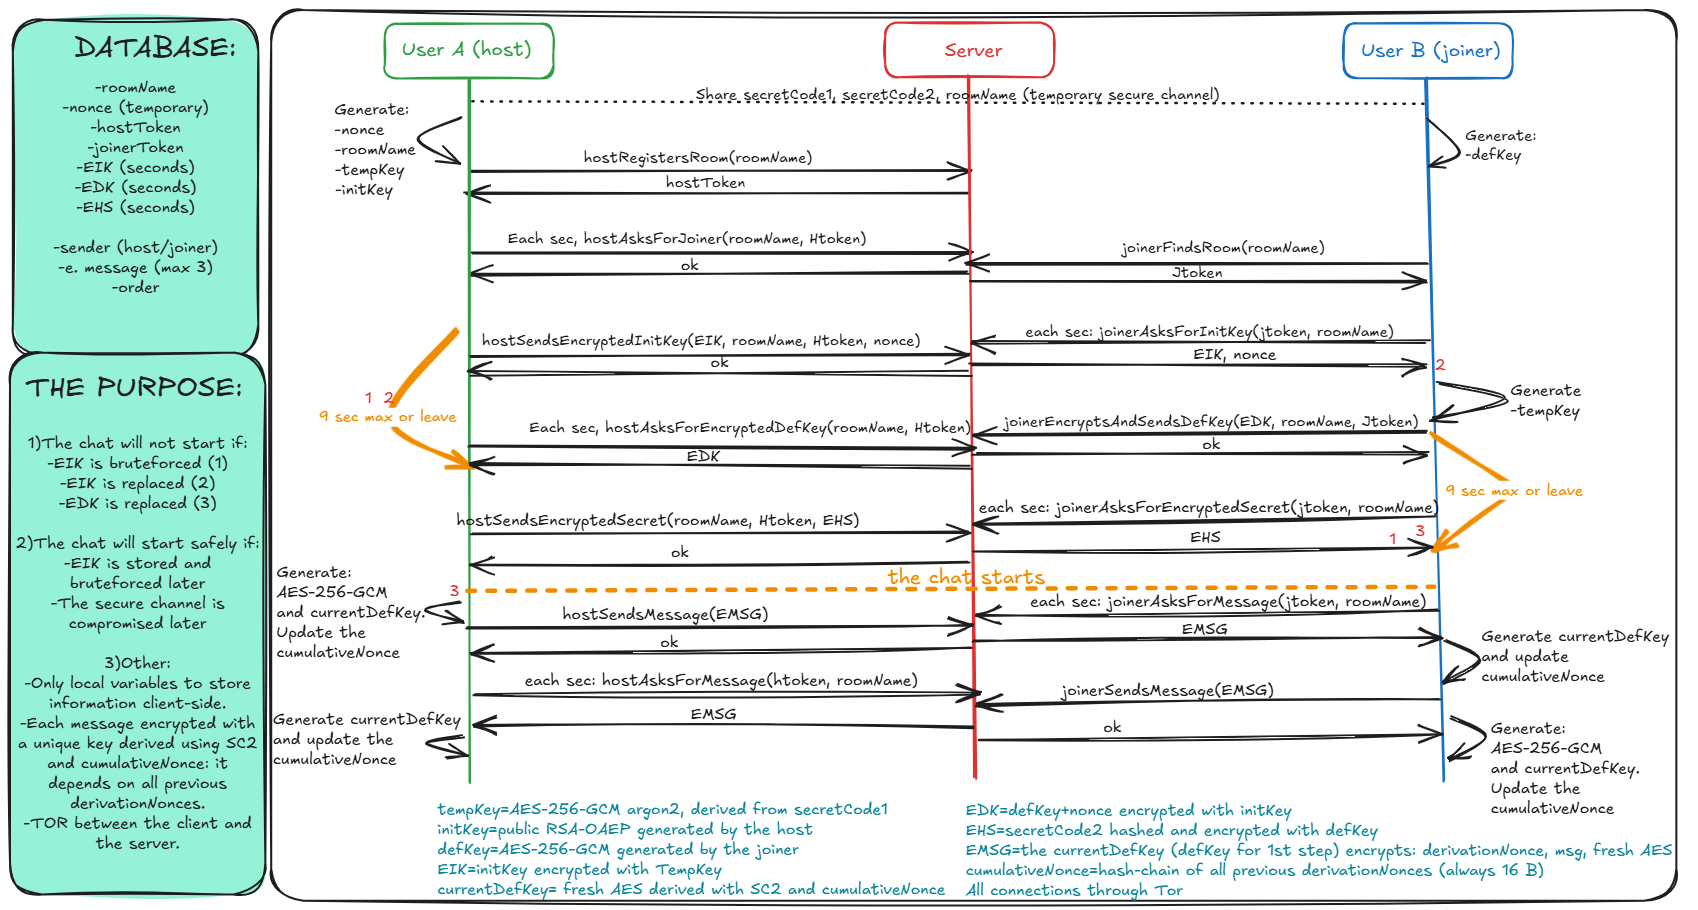
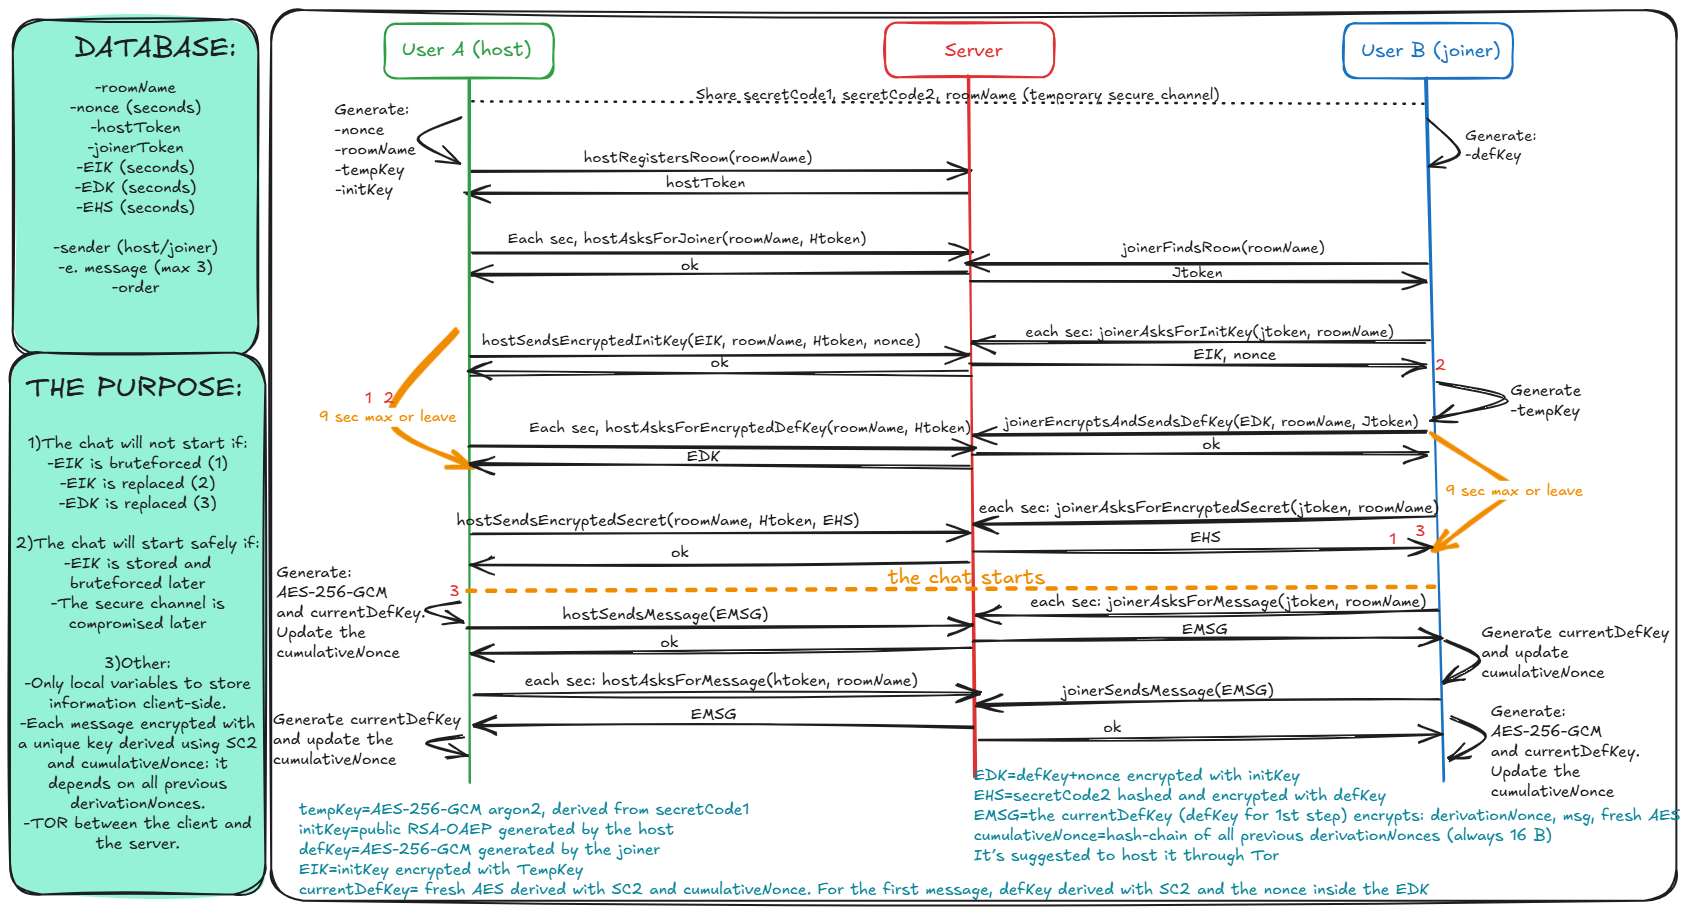
Improved encryption of first chat message + fix cumulativeNonce
Previously, only defKey encrypted the initial message. Now, defKey is derived with the EDK nonce that never leaves the browser in plaintext, along with secretCode2.

diff --git a/front/script.js b/front/script.js
@@ -5,12 +5,13 @@
 2)The host asks each 1,5s if the other user (joiner) joined the room.
 3)The joiner generates the defKey (AES), joins the room (with roomName) and receives the joinerToken.
 4)The host, knowing the joiner is present, generates a self-destruct timer and sends the initKey encrypted by the tempKey and the nonce to the server.
-5)The joiner asks for the nonce and encrypted initKey. Then he generates the tempKey (secretCode1, nonce and Argon) and uses it to decrypt the initKey
-6) The joiner starts a self-destruct timer, encrypts the defKey + random nonce using the decrypted initKey and sends it to the server.
-7) The host polls every 1.5 s for the defKey encrypted by the initKey. When it arrives it is decrypted, the trailing 16-byte nonce is removed, and the clean defKey is imported. The self-destruct timer is cleared.
+5)The joiner asks for the nonce and encrypted initKey. Then he generates the tempKey (secretCode1, nonce and Argon) and uses it to decrypt the initKey.
+6) The joiner starts a self-destruct timer, encrypts the defKey + random nonce using the decrypted initKey and sends it to the server. The first currentKey is the defKey derived with this nonce and the secretCode2.
+7) The host polls every 1.5 s for the defKey encrypted by the initKey. When it arrives it is decrypted, the trailing 16-byte nonce is used with the secretCode2 to derivate the first currentKey, and the clean defKey is imported. The self-destruct timer is cleared.
 8)The host Encrypts the hash of secretCode2 using the defKey and sends it to the server.
 9)The joiner ask for the encrypted hash of SecretCode2, decrypts it, compares it. If matches, the processus is validated and the joiner timer cleared.
 ----the chat starts---
+-The first message is encrypted with defKey derived with the nonce (step 6 or 7) and the secretCode2. Then:
 10)The sender encrypts message + a fresh AES + a nonce (derivationNonce) using currentDefKey (defKey for the first time) and sends it. Then updates cumulativeNonce (first message: =derivationNonce; later: SHA-256(old||new)[0:15]) and derives the next currentDefKey = AES derived with secretCode2 + cumulativeNonce.
 11)The receiver decrypts using currentDefKey, gets the AES and derivationNonce, updates cumulativeNonce exactly the same way (first message: =derivationNonce; later: SHA-256(old||new)[0:15]), then derives the next currentDefKey = AES derived with secretCode2 + cumulativeNonce.
 */
@@ -617,7 +618,7 @@ function app() {
     }
 
 
-    // 6) The joiner starts a self-destruct timer, encrypts the defKey + random nonce using the decrypted initKey and sends it to the server.
+    //6) The joiner starts a self-destruct timer, encrypts the defKey + random nonce using the decrypted initKey and sends it to the server. The first currentKey is the defKey derived with this nonce and the secretCode2.
     async function joinerEncryptsAndSendsDefKey() {
         try {
             stepsAnimation("defKey", "joiner", "completed");
@@ -625,6 +626,8 @@ function app() {
             const defKeyRaw = await crypto.subtle.exportKey('raw', defKey);
             // Generate a secure random nonce (16 bytes = 128 bits)
             const nonce = crypto.getRandomValues(new Uint8Array(16));
+            cumulativeNonce = nonce //the first message: cumulativeNonce = nonce sent with deFkey
+            await deriveNextCurrentDefKey(new Uint8Array(defKeyRaw)) //derive the key that encrypts the 1st message with cumulativeNonce and SC2
             // Concatenate defKey + nonce
             const defKeyWithNonce = new Uint8Array(defKeyRaw.byteLength + nonce.byteLength);
             defKeyWithNonce.set(new Uint8Array(defKeyRaw), 0);
@@ -658,7 +661,7 @@ function app() {
 
 
 
-    /* 7) The host polls every 1.5 s for the defKey encrypted by the initKey. When it arrives it is decrypted, the trailing 16-byte nonce is removed, and the clean defKey is imported. The self-destruct timer is cleared.*/
+    //7) The host polls every 1.5 s for the defKey encrypted by the initKey. When it arrives it is decrypted, the trailing 16-byte nonce is used with the secretCode2 to derivate the first currentKey, and the clean defKey is imported. The self-destruct timer is cleared.
     function hostAsksForEncryptedDefKey() {
         fetch('http://localhost:3001/api/hostAsksForEncryptedDefKey', {
             method: 'POST',
@@ -682,8 +685,10 @@ function app() {
                 return response.json();
             })
             .then(data => {
-                hostDecryptsDefKey(data.encryptedDefKey);
-                showBorderEffect("host", "defKeyImgContainer");
+                if (data?.encryptedDefKey) {
+                    hostDecryptsDefKey(data.encryptedDefKey);
+                    showBorderEffect("host", "defKeyImgContainer");
+                }
             })
             .catch(error => {
                 console.error('Error requesting defKey:', error);
@@ -711,6 +716,7 @@ function app() {
                 throw new Error('Decrypted payload too short – missing nonce');
             }
             const defKeyRaw = fullArray.slice(0, -NONCE_LENGTH);
+            cumulativeNonce = fullArray.slice(-NONCE_LENGTH); //the first message: cumulativeNonce = nonce sent with deFkey
             defKey = await crypto.subtle.importKey(
                 'raw',
                 defKeyRaw,
@@ -718,6 +724,9 @@ function app() {
                 false,
                 ['encrypt', 'decrypt']
             );
+            await deriveNextCurrentDefKey(new Uint8Array(defKeyRaw)) //the first message is encrypted by defKey derived using SC2 and cumulativeNonce
+
+
             timer("host", "stop");
             hostEncryptsTheSecret(defKey);
             stepsAnimation("validated", "host", "completed");
@@ -755,6 +764,7 @@ function app() {
             const base64EncryptedHash = btoa(String.fromCharCode(...result));
             showBorderEffect("host", "lockStatusImgContainer")
             hostSendsEncryptedSecret(base64EncryptedHash);
+            defKey = null
         } catch (error) {
             stepsAnimation("validated", "host", "failed")
             console.error("Errore crittografia secret:", error);
@@ -763,8 +773,6 @@ function app() {
 
 
     function hostSendsEncryptedSecret(base64EncryptedHash) {
-        currentDefKey = defKey;
-        defKey = null
         fetch('http://localhost:3001/api/hostSendsEncryptedSecret', {
             method: 'POST',
             headers: { 'Content-Type': 'application/json' },
@@ -849,12 +857,10 @@ function app() {
         const myHash = new Uint8Array(myHashBuffer)
         const a = receivedSecretHash;
         const b = myHash;
-        console.log(a, b)
         if (a.length === b.length && a.toString() === b.toString()) {
             stepsAnimation("chat", "joiner", "completed")
             timer("joiner", "stop")
             alert("host is certified!")
-            currentDefKey = defKey
             defKey = null
             setTimeout(() => {
                 updateDynamicElements("chatPage")
@@ -1105,7 +1111,7 @@ function app() {
                     combined.set(cumulativeNonce, 0);
                     combined.set(derivationNonce, 16);
                     const hash = await crypto.subtle.digest("SHA-256", combined);
-                    cumulativeNonce = hash.slice(0, 16);  // always 16 byte
+                    cumulativeNonce = new Uint8Array(hash).slice(0, 16);  // always 16 byte
                 }
                 // 9. Derive the new current key from the nextAesKey (using secretCode2 + derivationNonce from previous msg)
                 currentDefKey = await deriveNextCurrentDefKey(nextAesRaw);
@@ -1151,7 +1157,7 @@ function app() {
                 combined.set(cumulativeNonce, 0);
                 combined.set(derivationNonce, 16);
                 const hash = await crypto.subtle.digest("SHA-256", combined);
-                cumulativeNonce = hash.slice(0, 16);  // always 16 byte
+                cumulativeNonce = new Uint8Array(hash).slice(0, 16);  // always 16 byte
             }
             // 6. Derive the next currentDefKey using the new cumulativeNonce
             currentDefKey = await deriveNextCurrentDefKey(nextAesRaw);

diff --git a/readme.md b/readme.md
@@ -4,11 +4,13 @@
 Experimental, minimalist end-to-end encrypted chat.
 
 Requires one **temporarily secure external channel** (voice call, QR, meeting, another app etc.) just to exchange two secret words and start the session. 
-The countdown and user verification systems are designed to prevent the chat from starting if any attempt at compromise is detected.
+The countdown and user verification systems are designed to prevent the chat from starting if any attempt at compromise is detected. 
 The system prioritizes anonymity and only collects information necessary for operation, ensuring that sensitive data does not pass through the server in plain text.
 
-Once launched, every message uses a **unique key** derived with an hash that incorporates the derivationNonces encrypted in all previous messages. 
-
+Every message uses a **unique key** derived via Argon2id using:
+- a fresh random AES key (sent encrypted in the current message)
+- a salt composed of **secret word 2 and the hash-chain of the present and all previous random derivation nonces**
+* The first message is encrypted with the defKey derived via Argon2id using secret word 2 and the nonce of EIK (step 6 or 7)
 
 
 ## Security
@@ -31,19 +33,22 @@ Once launched, every message uses a **unique key** derived with an hash that inc
    -Both participants can delete the room at any time
 
    ## Frontend
+
 -The steps:
 1)The host generates a nonce, the tempKey (using secretCode1 and Argon), the initKey (public RSA-OAEP) then he registers a room with the roomName and receives the hostToken.
 2)The host asks each 1,5s if the other user (joiner) joined the room.
 3)The joiner generates the defKey (AES), joins the room (with roomName) and receives the joinerToken.
 4)The host, knowing the joiner is present, generates a self-destruct timer and sends the initKey encrypted by the tempKey and the nonce to the server.
-5)The joiner asks for the nonce and encrypted initKey. Then he generates the tempKey (secretCode1, nonce and Argon) and uses it to decrypt the initKey
-6)The joiner starts a self-destruct timer, encrypts the defKey + random nonce using the decrypted initKey and sends it to the server.
-7)The host polls every 1.5 s for the defKey encrypted by the initKey. When it arrives it is decrypted, the trailing 16-byte nonce is removed, and the clean defKey is imported. The self-destruct timer is cleared.
+5)The joiner asks for the nonce and encrypted initKey. Then he generates the tempKey (secretCode1, nonce and Argon) and uses it to decrypt the initKey.
+6)The joiner starts a self-destruct timer, encrypts the defKey + random nonce using the decrypted initKey and sends it to the server. The first currentKey is the defKey derived with this nonce and the secretCode2.
+7)The host polls every 1.5 s for the defKey encrypted by the initKey. When it arrives it is decrypted, the trailing 16-byte nonce is used with the secretCode2 to derivate the first currentKey, and the clean defKey is imported. The self-destruct timer is cleared.
 8)The host Encrypts the hash of secretCode2 using the defKey and sends it to the server.
 9)The joiner ask for the encrypted hash of SecretCode2, decrypts it, compares it. If matches, the processus is validated and the joiner timer cleared.
 ----the chat starts---
+-The first message is encrypted with defKey derived with the nonce (step 6 or 7) and the secretCode2. Then:
 10)The sender encrypts message + a fresh AES + a nonce (derivationNonce) using currentDefKey (defKey for the first time) and sends it. Then updates cumulativeNonce (first message: =derivationNonce; later: SHA-256(old||new)[0:15]) and derives the next currentDefKey = AES derived with secretCode2 + cumulativeNonce.
 11)The receiver decrypts using currentDefKey, gets the AES and derivationNonce, updates cumulativeNonce exactly the same way (first message: =derivationNonce; later: SHA-256(old||new)[0:15]), then derives the next currentDefKey = AES derived with secretCode2 + cumulativeNonce.
+
  
 
 
